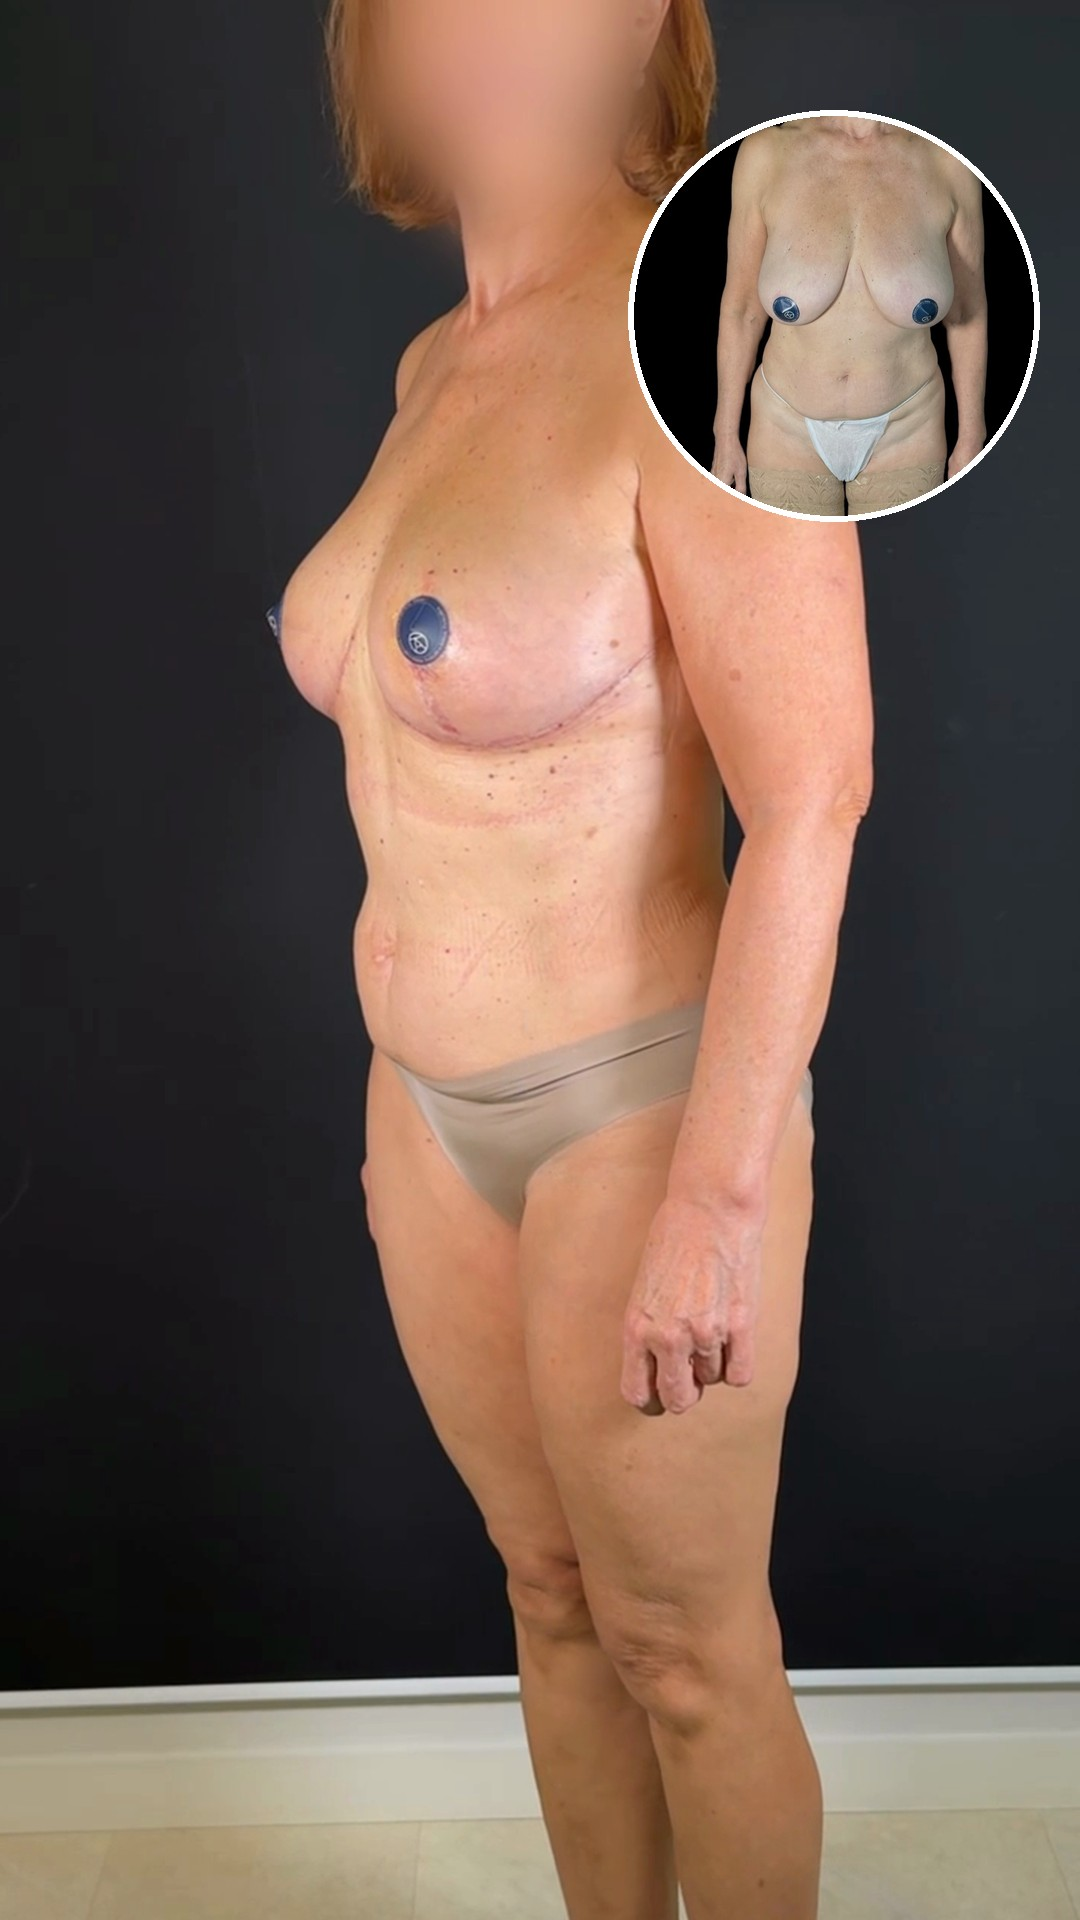
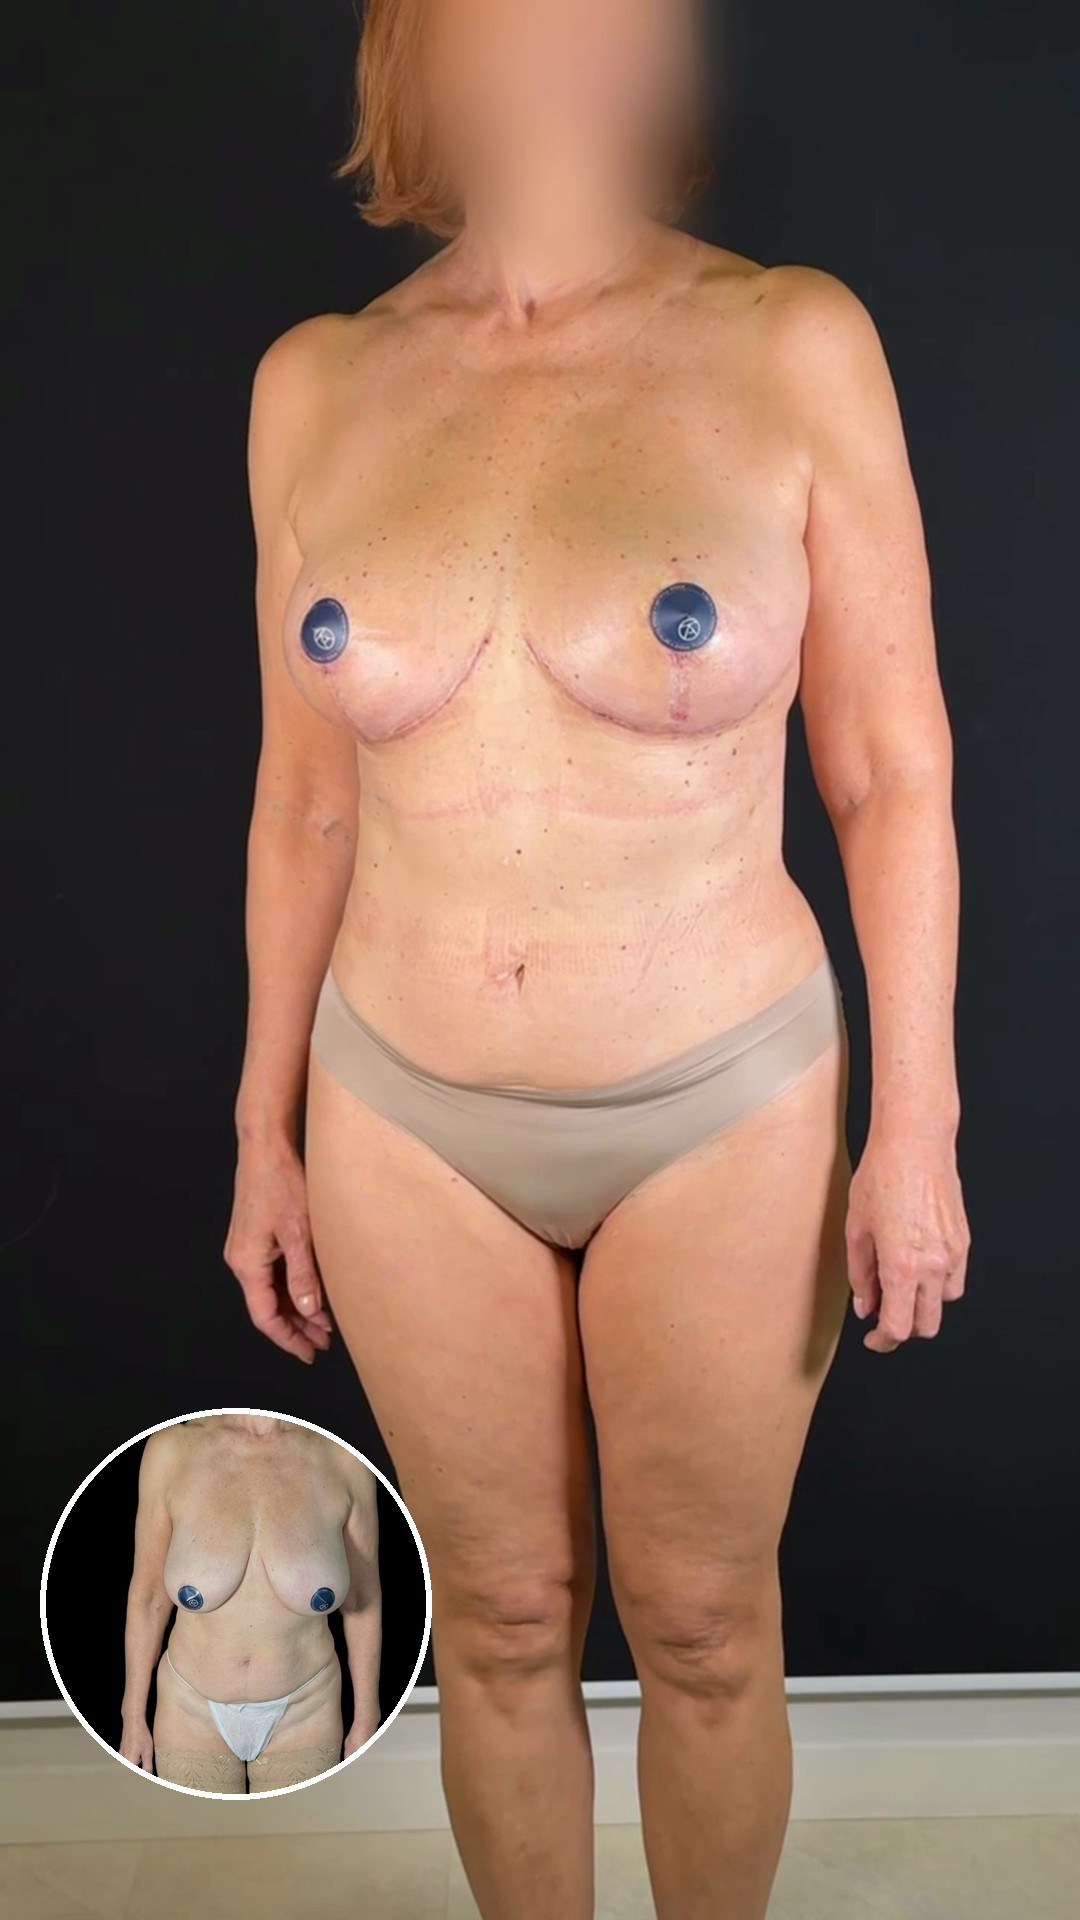
Reduction one-month stories: start from the front view with a turning before circle low left, thesis slide on the autoimplant method, slider bodies full width
Claude-Session: https://claude.ai/code/session_01DoBoRz2HUe4yvMBz6dWv4L

diff --git a/tools/stories_reduction_month.py b/tools/stories_reduction_month.py
@@ -1,7 +1,9 @@
-"""2 simple stories (1080x1920): breast reduction (autoimplant), result after one month.
+"""3 simple stories (1080x1920): breast reduction (autoimplant), result after one month.
 
-1. the patient's own words over the one-month video (from 0:21, face blurred, voice gently changed) + «наше до» circle.
-2. one video: the before body (neck to fingertips) -> a slider -> the after body (same framing, same scale), then the
+1. the patient's own words over the one-month video (from the frontal view at 0:17.5, face blurred, voice gently
+   changed) + «наше до» circle low on the left whose before body turns with her (front -> 3/4 -> side photos).
+2. the thesis: the way to the dream started with this before; the reduction by the autoimplant (Ribeiro) method.
+3. one video: the before body (neck to fingertips) -> a slider -> the after body (same framing, same scale), then the
    clinic's one-week collages and the same collages made with the one-month photos; the bottom stays free for the
    «Записаться на консультацию» button.
 
@@ -10,7 +12,7 @@ Sources (drive/ from the Drive folder 1EyuB8yLY1E7px4mXB37EBpnS-B6fB_zJ): IMG_20
 (month_blur.mp4 = 21-33 s through face_blur_track.py), IMG_9150-9152 the clinic's one-week collages (after on top,
 before below), IMG_2029 / 2045 / 2042 one-month photos (front / 3/4 / side; <name>.mask.png = rembg cut-out).
 
-usage: python3 stories_reduction_month.py SRC_DIR OUT_DIR [1|2] [notext]   (notext: *_bez_teksta.mp4)
+usage: python3 stories_reduction_month.py SRC_DIR OUT_DIR [1|2|3] [notext]   (notext: *_bez_teksta.mp4)
 """
 import os, subprocess, sys
 import numpy as np, cv2
@@ -69,22 +71,39 @@ def on_black(name):
 
 # ---------------- story 1 ----------------
 def s1():
-    src = os.path.join(DRIVE, "month_blur.mp4"); out = os.path.join(OUT, f"01_odin_v_odin{SUF}.mp4"); tmp = out + ".v.mp4"
+    src = os.path.join(DRIVE, "month_blur17.mp4"); out = os.path.join(OUT, f"01_odin_v_odin{SUF}.mp4"); tmp = out + ".v.mp4"
     dur = float(subprocess.run(["ffprobe", "-v", "error", "-show_entries", "format=duration", "-of", "csv=p=0", src],
                                capture_output=True, text=True).stdout)
     ly = Image.new("RGBA", (W, H), (0, 0, 0, 0))
-    # «наше до»: the before body (chest to hips) in a circle, top right; thin caption under it
-    D = 400; ph = photo("IMG_9150.PNG").crop((115, 1255, 1115, 2255)).resize((D, D), Image.LANCZOS)   # neck to thighs, arms in, on the body axis (x 615)
-    circ = Image.new("RGBA", (D + 12, D + 12), (0, 0, 0, 0)); ImageDraw.Draw(circ).ellipse((0, 0, D + 11, D + 11), fill=WHITE + (255,))
-    m = Image.new("L", (D, D), 0); ImageDraw.Draw(m).ellipse((0, 0, D - 1, D - 1), fill=255); ph = ph.convert("RGBA"); ph.putalpha(m)
-    circ.alpha_composite(ph, (6, 6)); cx, cy = W - 40 - circ.width, 110; ly.alpha_composite(circ, (cx, cy))
-    if not NOTEXT: shadowed_text([("наше до", mont(32, 300), 44)], cx + circ.width // 2 - int(mont(32, 300).getlength("наше до")) // 2, cy + circ.height + 6, ly)
     # the quote and what it is, low under the usual fade
     hb, bb = ImageFont.truetype(BOLD, 64), mont(38, 500); sm = mont(34, 400)
     lines = [("«КАК Я И ХОТЕЛА", hb, 76), ("ОДИН В ОДИН»", hb, 92), ("результат спустя МЕСЯЦ", bb, 52), ("после редукции (аутоимплант)", sm, 46)]
     top = H - 90 - sum(s for _, _, s in lines)
     if not NOTEXT: shadowed_text(lines, MARGIN, top, ly)
     shade = fade(top + 40, 380, 0.85) if not NOTEXT else np.zeros((H, 1, 1), np.float32)
+    # «наше до»: low on the left, above the text. The before body turns with her: front, then 3/4, then side (the
+    # clinic's before photos; 3/4 and side mirrored, she turns her right side to the camera here)
+    D = 380; R = D // 2 + 6
+    views = [photo("IMG_9150.PNG").crop((115, 1255, 1115, 2255)),
+             ImageOps.mirror(photo("IMG_9151.PNG").crop((-45, 1255, 955, 2255))),
+             ImageOps.mirror(photo("IMG_9152.PNG").crop((170, 1255, 1170, 2255)))]
+    m = Image.new("L", (D, D), 0); ImageDraw.Draw(m).ellipse((0, 0, D - 1, D - 1), fill=255)
+    rings = []
+    for v in views:
+        c = Image.new("RGBA", (D + 12, D + 12), (0, 0, 0, 0)); ImageDraw.Draw(c).ellipse((0, 0, D + 11, D + 11), fill=WHITE + (255,))
+        ph = v.resize((D, D), Image.LANCZOS).convert("RGBA"); ph.putalpha(m); c.alpha_composite(ph, (6, 6))
+        rings.append(np.asarray(c, np.float32) / 255)
+    ccx, ccy = 40, (top - 64 - (D + 12)) if not NOTEXT else H - 120 - (D + 12)
+    if not NOTEXT:
+        f32 = mont(32, 300); shadowed_text([("наше до", f32, 44)], ccx + R - int(f32.getlength("наше до")) // 2, ccy + D + 18, ly)
+    TURN = [(4.3, 5.3, 0, 1), (8.0, 9.0, 1, 2)]           # seconds of this clip: front -> 3/4 (abs 22-23 s), 3/4 -> side (25.5-26.5 s)
+
+    def ring_at(t):
+        k = 0
+        for a, b, i0, i1 in TURN:
+            if t >= b: k = i1
+            elif t > a: q = (t - a) / (b - a); return rings[i0] * (1 - q) + rings[i1] * q
+        return rings[k]
     ov = np.asarray(ly, np.float32) / 255; oa = ov[..., 3:4]
     p = subprocess.Popen(["ffmpeg", "-v", "error", "-i", src, "-vf", f"scale={W}:{H}:flags=lanczos,fps={FPS}", "-f", "rawvideo",
                           "-pix_fmt", "rgb24", "-"], stdout=subprocess.PIPE)
@@ -97,7 +116,9 @@ def s1():
         z = 1.0 + 0.03 * i / n; M = cv2.getRotationMatrix2D((W / 2, H * 0.55), 0, z)
         fr = cv2.warpAffine(last, M, (W, H), flags=cv2.INTER_LINEAR, borderMode=cv2.BORDER_REFLECT).astype(np.float32) / 255
         fr = fr * (1 - shade); fr = fr * (1 - oa) + ov[..., :3] * oa
-        o = (fr * 255).astype(np.uint8); enc.stdin.write(o.tobytes())
+        rg = ring_at(i / FPS); al = rg[..., 3:4]; h, w = rg.shape[:2]
+        fr[ccy:ccy + h, ccx:ccx + w] = fr[ccy:ccy + h, ccx:ccx + w] * (1 - al) + rg[..., :3] * al
+        o = (np.clip(fr, 0, 1) * 255).astype(np.uint8); enc.stdin.write(o.tobytes())
         if i == int(3 * FPS): Image.fromarray(o).save(out[:-4] + ".jpg", quality=90)
     p.kill(); enc.stdin.close(); enc.wait()
     subprocess.run(["ffmpeg", "-v", "error", "-y", "-i", tmp, "-i", src, "-map", "0:v", "-map", "1:a", "-c:v", "copy",
@@ -106,7 +127,26 @@ def s1():
     os.remove(tmp); print("wrote", out, flush=True)
 
 
-# ---------------- story 2 ----------------
+# ---------------- story 2: the thesis ----------------
+def s_thesis():
+    """the way to the dream began with this before: the before body on top, the autoimplant method in a few key words"""
+    hb = ImageFont.truetype(BOLD, 52); b = mont(32, 400); bm = mont(32, 600)
+    lines = [("ПУТЬ К МЕЧТЕ", hb, 62), ("НАЧАЛСЯ С ТАКОГО ДО", hb, 80),
+             ("Гигантомастия: от яремной вырезки до соска 32 см.", b, 56),
+             ("Уменьшение груди методом аутоимпланта", bm, 44), ("(метод Рибейро):", bm, 54),
+             ("из собственных тканей нижней части груди", b, 42), ("формируем «аутоимплант» и поднимаем его вверх.", b, 42),
+             ("Он наполняет верхний полюс и держит форму,", b, 42), ("красивый объём без силиконового импланта.", b, 54),
+             ("Сосок с ареолой выше, форма симметричная,", b, 42), ("ткани сохраняем по максимуму.", b, 42)]
+    top = H - 80 - sum(s for _, _, s in lines)
+    body = photo("IMG_9150.PNG").crop((115, 1255, 1115, 2343))                 # the before: neck to the stockings
+    ah = top - 60 - 60; sc = ah / body.height; body = body.resize((int(body.width * sc), ah), Image.LANCZOS)
+    cv = Image.new("RGB", (W, H), (0, 0, 0)); cv.paste(body, ((W - body.width) // 2, 60)); cv = cv.convert("RGBA")
+    ly = Image.new("RGBA", (W, H), (0, 0, 0, 0)); shadowed_text(lines, MARGIN, top, ly)
+    p_ = pill("наше до", 28); ly.alpha_composite(p_, ((W - body.width) // 2 + 24, 84))
+    cv.alpha_composite(ly); out = os.path.join(OUT, "02_put_k_mechte.jpg"); cv.convert("RGB").save(out, quality=94); print("wrote", out)
+
+
+# ---------------- story 3 ----------------
 AREA = (150, 1650)            # picture band; under it (1650..1920) the free room for the consultation button
 
 
@@ -116,7 +156,7 @@ def fit_band(img, area=AREA):
     cv = Image.new("RGB", (W, H), (0, 0, 0)); cv.paste(im, ((W - im.width) // 2, area[0])); return np.asarray(cv, np.float32) / 255
 
 
-BODY = (330, 1480)            # the before / after bodies a bit further away: neck to fingertips with room around
+BODY = (110, 1663)            # the before / after bodies large: neck to mid-thigh across the whole width; button room below
 
 
 def month_collage(after_name, after_crop, week_name):
@@ -141,18 +181,18 @@ def month_collage(after_name, after_crop, week_name):
 
 
 def s2():
-    out = os.path.join(OUT, f"02_do_posle{SUF}.mp4"); tmp = out + ".v.mp4"
+    out = os.path.join(OUT, f"03_do_posle{SUF}.mp4"); tmp = out + ".v.mp4"
     # same framing for both: neck to fingertips (before: neck 1270 .. fingertips 2190 in IMG_9150;
     # after: neck 70 .. fingertips 1540 in IMG_2029 -> scale 0.626), body centred
-    before = fit_band(photo("IMG_9150.PNG").crop((150, 1245, 1080, 2235)), BODY)        # 930 x 990 around the body
-    after = fit_band(on_black("IMG_2029.JPG").crop((47, 30, 1533, 1611)), BODY)        # the same /0.626
+    before = fit_band(photo("IMG_9150.PNG").crop((235, 1250, 995, 2343)), BODY)        # all of the before photo, arms in
+    after = fit_band(on_black("IMG_2029.JPG").crop((183, 38, 1397, 1784)), BODY)        # the same framing /0.626
     labs = {k: np.asarray(pill(k, 30), np.float32) / 255 for k in ["до", "после"]}
     week = [photo(n) for n in ["IMG_9150.PNG", "IMG_9151.PNG", "IMG_9152.PNG"]]
     month = [month_collage("IMG_2029.JPG", (78, 60, 1502, 1500), "IMG_9150.PNG"),
              month_collage("IMG_2045.JPG", (40, 190, 1480, 1630), "IMG_9151.PNG"),
              month_collage("IMG_2042.JPG", (0, 130, 1440, 1570), "IMG_9152.PNG")]
     for i, im in enumerate(month): im.save(os.path.join(OUT, f"kollazh_mesyac_{i + 1}.jpg"), quality=94)
-    slides = [fit_band(im) for im in week + month]
+    slides = [fit_band(im, (0, H)) for im in week + month]                          # the collages on the whole screen
 
     def blit(fr, a, x, y, k=1.0):
         h, w = a.shape[:2]; al = a[..., 3:4] * k; fr[y:y + h, x:x + w] = fr[y:y + h, x:x + w] * (1 - al) + a[..., :3] * al
@@ -173,8 +213,8 @@ def s2():
                 d.ellipse((2, 2, 81, 81), outline=WHITE + (255,), width=4, fill=(0, 0, 0, 90))
                 d.polygon([(30, 42), (40, 32), (40, 52)], fill=WHITE + (255,)); d.polygon([(54, 42), (44, 32), (44, 52)], fill=WHITE + (255,))
                 blit(fr, np.asarray(ring, np.float32) / 255, min(max(xs - 42, 0), W - 84), (BODY[0] + BODY[1]) // 2 - 42)
-            if p < 1 and not NOTEXT: blit(fr, labs["до"], W - 40 - labs["до"].shape[1], BODY[0] - 70)
-            if p > 0 and not NOTEXT: blit(fr, labs["после"], 40, BODY[0] - 70)
+            if p < 1 and not NOTEXT: blit(fr, labs["до"], W - 40 - labs["до"].shape[1], BODY[0] + 24)
+            if p > 0 and not NOTEXT: blit(fr, labs["после"], 40, BODY[0] + 24)
         else:
             tc = t - (T_B + T_S + T_A); k = min(int(tc // T_C), len(slides) - 1); lt = tc - k * T_C
             fr = slides[k].copy()
@@ -188,4 +228,5 @@ def s2():
 
 
 if not ONLY or 1 in ONLY: s1()
-if not ONLY or 2 in ONLY: s2()
+if (not ONLY or 2 in ONLY) and not NOTEXT: s_thesis()
+if not ONLY or 3 in ONLY: s2()

diff --git a/stories_reduction_month/README.md b/stories_reduction_month/README.md
@@ -5,12 +5,13 @@
 
 | № | Файл | Что |
 |---|------|-----|
-| 1 | 01_odin_v_odin.mp4 | видео через месяц (IMG_2047) с 0:21, лицо размыто (`face_blur_track.py`), голос пациентки мягко изменён; кружок «наше до» справа вверху; «КАК Я И ХОТЕЛА ОДИН В ОДИН» / результат спустя МЕСЯЦ / после редукции (аутоимплант) |
-| 2 | 02_do_posle.mp4 | ДО от шеи до кончиков пальцев (с запасом вокруг) → ползунок → ПОСЛЕ в том же кадре и масштабе (шея 1270→70, пальцы 2190→1540), затем коллажи клиники «через неделю» (IMG_9150–9152) и такие же коллажи «через месяц»; низ (1650–1920) свободен под кнопку «Записаться на консультацию» |
+| 1 | 01_odin_v_odin.mp4 | видео через месяц (IMG_2047) с 0:17,5 — начинается с прямого ракурса, лицо размыто, голос мягко изменён; кружок «наше до» слева внизу над текстом: тело ДО поворачивается вместе с ней (прямо → 3/4 → сбоку, фото клиники; 3/4 и бок отзеркалены, т.к. на видео она поворачивается правым боком); «КАК Я И ХОТЕЛА ОДИН В ОДИН» / результат спустя МЕСЯЦ / после редукции (аутоимплант) |
+| 2 | 02_put_k_mechte.jpg | тезис: ПУТЬ К МЕЧТЕ НАЧАЛСЯ С ТАКОГО ДО; гигантомастия (32 см от яремной вырезки до соска, из видео разметки IMG_6972); метод аутоимпланта (Рибейро) по ключевым словам |
+| 3 | 03_do_posle.mp4 | ДО → ползунок → ПОСЛЕ крупно, на всю ширину (всё фото ДО: от шеи до середины бедра, руки целиком), затем коллажи на весь экран: «через неделю» и «через месяц»; внизу место под кнопку |
 
 `kollazh_mesyac_1..3.jpg` — новые коллажи «Результат спустя месяц после операции» (шрифт и размер подписи как у коллажей клиники — Inter SemiBold): сверху фото через месяц (IMG_2029 / 2045 / 2042,
 фон вырезан на чёрный rembg, обрезано под подбородком), снизу то же фото ДО, что в коллажах клиники.
 
 Без текста (`... stories_reduction_month notext`): `01_odin_v_odin_bez_teksta.mp4` (кружок без подписи, без текста и
-затемнения), `02_do_posle_bez_teksta.mp4` (без меток «до»/«после»; подписи на самих коллажах остаются).
+затемнения), `03_do_posle_bez_teksta.mp4` (без меток «до»/«после»; подписи на самих коллажах остаются).
 Коллажи отдельными фото: `kollazh_nedelya_1..3.png` (коллажи клиники через неделю), `kollazh_mesyac_1..3.jpg` (через месяц).
